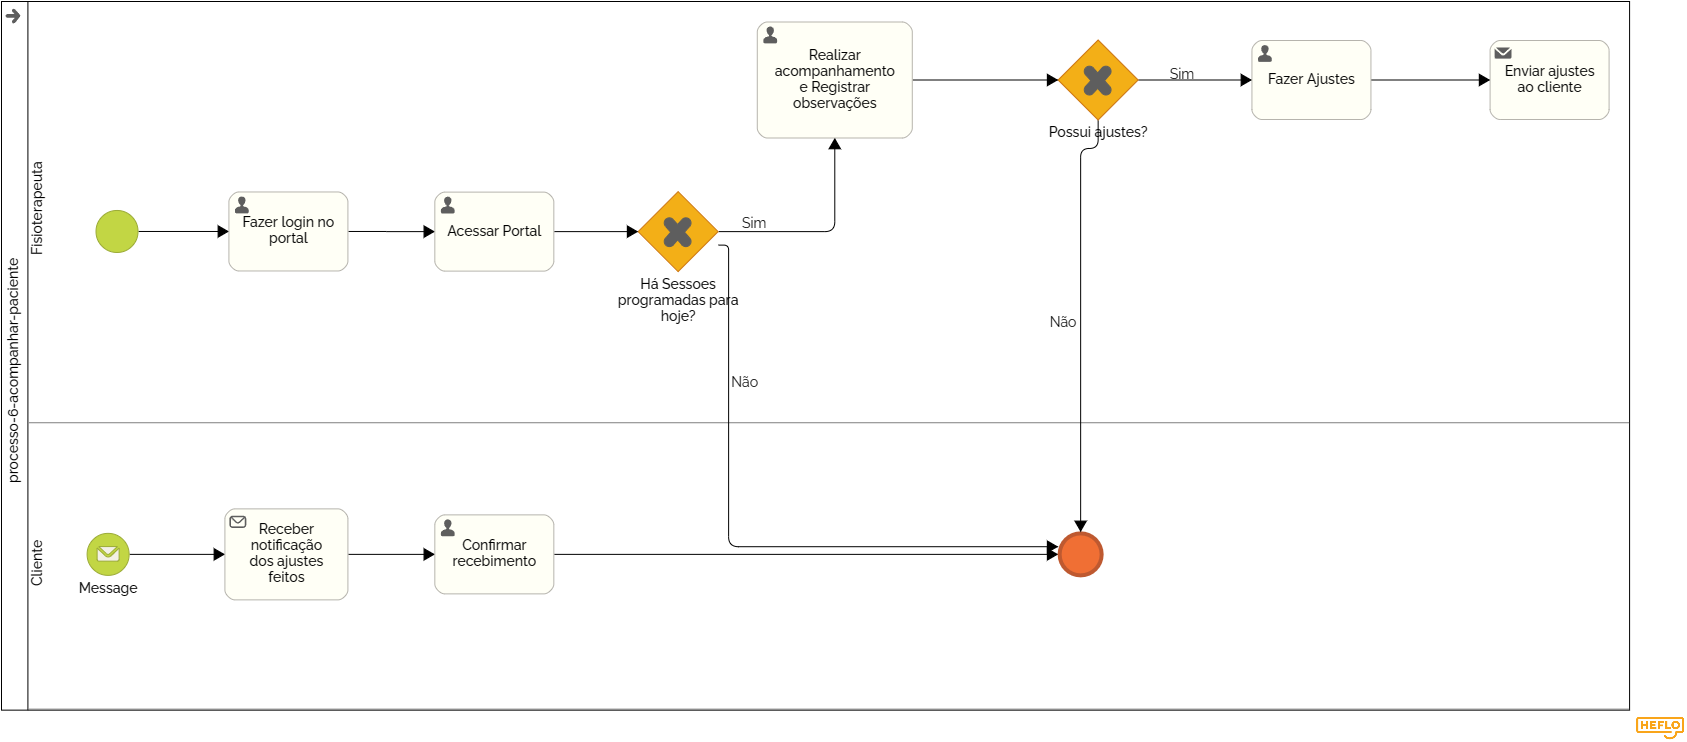
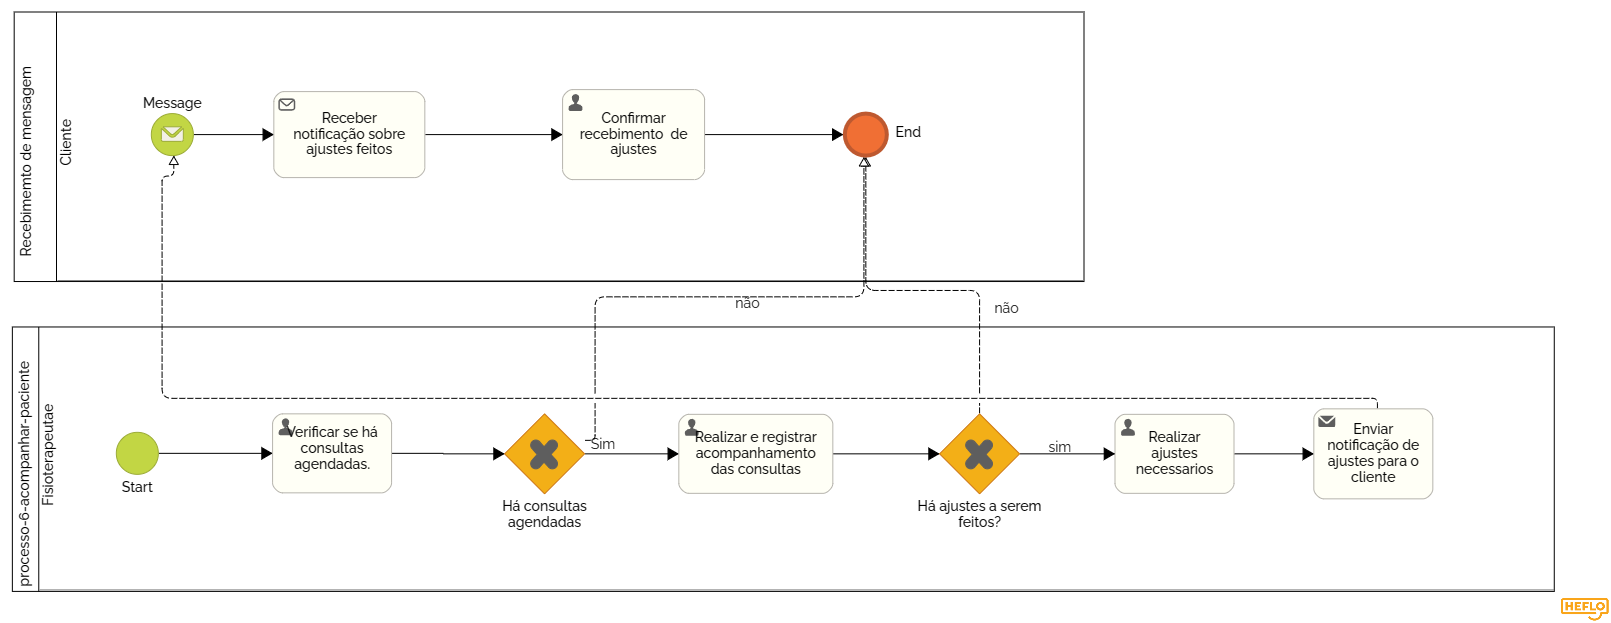
docs: alteração e atualização processos bpmn
Processo 2:
    - Adicionado possibilidade de cadastrar datas e horários disponíveis para agendamento
    - Removido dependência de login e evento de mensagem
- Processo 6:
    - Removido dependência de login e o acesso do portal
    - Adicionado subprocesso para envio de mensagem

diff --git a/docs/processo-2-controlar-consultas.md b/docs/processo-2-controlar-consultas.md
@@ -54,44 +54,3 @@ Esse processo refere-se ao gerenciamento de consultas por parte do fisioterapeut
 | Cancelar           | Tela de Cancelamento de Consulta    | link     |
 
 ---
-
-#### **Atividade: Enviar Notificação de Alterações Relacionado à Consulta para o Paciente**
-
-**Objetivo:** Informar o paciente sobre qualquer mudança relacionada à consulta agendada.
-
-| **Campo**          | **Tipo**            | **Restrições** | **Valor default** |
-| ------------------ | ------------------- | --------------- | ----------------- |
-| Mensagem           | Área de texto       | -               | -                 |
-
-| **Comandos**       | **Destino**                         | **Tipo** |
-| ------------------ | ---------------------------------- | -------- |
-| Enviar             | Envio de Notificação                | default  |
-
----
-
-#### **Atividade: Receber Notificação de Alterações na Consulta**
-
-**Objetivo:** Garantir que o fisioterapeuta seja notificado sobre quaisquer alterações feitas pelo paciente na consulta agendada.
-
-| **Campo**          | **Tipo**      | **Restrições** | **Valor default** |
-| ------------------ | ------------- | --------------- | ----------------- |
-| Notificações       | Tabela        | -               | -                 |
-
-| **Comandos**       | **Destino**                         | **Tipo** |
-| ------------------ | ---------------------------------- | -------- |
-| Visualizar Detalhes| Detalhes da Notificação            | link     |
-
----
-
-#### **Atividade: Confirmar Recebimento**
-
-**Objetivo:** Confirmar o recebimento da notificação sobre as alterações feitas na consulta agendada.
-
-| **Campo**          | **Tipo**      | **Restrições** | **Valor default** |
-| ------------------ | ------------- | --------------- | ----------------- |
-| Confirmar          | Botão         | -               | -                 |
-
-| **Comandos**       | **Destino**                         | **Tipo** |
-| ------------------ | ---------------------------------- | -------- |
-| Confirmar          | Confirmação do Recebimento         | default  |
-
